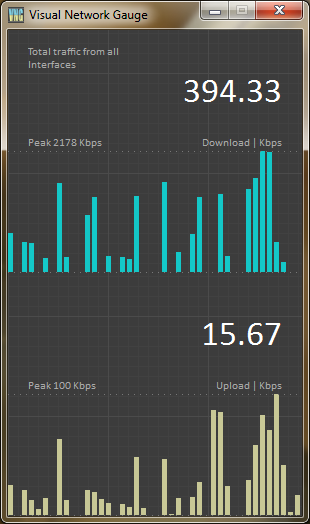
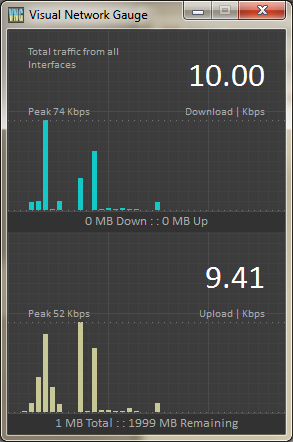
2019043001

Changed region(s): [[0.0, 0.0, 1.0, 1.0], [0.6451, 0.5882, 0.9215, 0.6765], [0.5836, 0.1471, 0.9215, 0.2059]]

diff --git a/VNGHelp/help.html b/VNGHelp/help.html
@@ -49,7 +49,7 @@
                         <img src="images/OormiLogo.png" alt="oormi">
 
                         <p><a href="https://oormi.in">By Oormi Creations</a></p>
-                        <p>Oct 2018</p>
+                        <p>April 2019</p>
                         <p>For queries, support, bug reports, feature requests etc, please Email us:</p>
                         <p><a href="mailto:oormicreations@gmail.com">oormicreations@gmail.com</a></p>
 
@@ -81,6 +81,7 @@
                 <p>VizNetGauge also plots a running bar chart of the upload and download speeds.</p>
                 <p>It auto detects the network interfaces and can show the traffic from a single interface or sum of all traffic
                 going through all interfaces.</p>
+                <p>It also shows the uploaded, downloaded, total and remaining data counters.</p>
                    <p>It has a responsive, dynamic and minimal UI.</p>
                    <p>It provides many customizable features as mentioned below.</p>
                <p>To explore more features and functions of this utility, right
@@ -128,14 +129,10 @@
                 <h3 id = "Usage">Usage</h3>
                 <p>Simply run it. You can resize the window. Zoom in with a bigger window. A smaller window will gradually remove the content to 
                 make it more readable, keeping the essentials. It shows the name of the interface, peak speed and units in addition to the
-                network upload and download speed.</p>
-               
-            
+                network upload and download speed. It also displays the data counters.</p>
+         
+          
  
-                <div class="noticebox">
-                  <p>Note: It remembers the window position, but not the window size (Current version).</p>
-                </div>
-                 <br>
                 <div class="noticebox">
                   <p>Note: There is a lower and higher limit for window size to keep things in order.</p>
                 </div>
@@ -147,12 +144,17 @@
                
                 
                  <br><br>
-                
+              <br><hr> <br>
+             <h3 id="Options">Options</h3>
+               
                 
                 <p>Right Click on the main window to bring up the Pop Up Menu.</p>
                 <p><strong>Options/Restore default settings:</strong> Does exactly that.</p>
                 <p><strong>Options/Always on top:</strong> If you wish to view the speed all the time without losing the sight of VizNetGauge.</p>
                 <p><strong>Options/Minimize to tray:</strong> If you have more important things to do and VizNetGauge in standing in the way.</p>
+                <p><strong>Options/Configure Data Usage:</strong> Brings up the data usage settings dialog.</p>
+                <p><strong>Options/Reset Data Usage History:</strong> Sets all data counters to 0.</p>
+
                 <p><strong>Help/Online Help:</strong> Access this help online.</p>
                 <p><strong>Help/About:</strong> Information about VizNetGauge.</p>
                 <p><strong>Help/Check for updates:</strong> If updates are available
@@ -230,7 +232,7 @@
           | <a href="https://github.com/oormicreations/VizNetGauge/blob/master/LICENSE.txt"
 
             target="_blank"> License</a></p>
-        <p><small>© 2018 Oormi Creations</small></p>
+        <p><small>© 2019 Oormi Creations</small></p>
         </div>
 
 

diff --git a/VizNetGauge/VizNetGaugeDlg.cpp b/VizNetGauge/VizNetGaugeDlg.cpp
@@ -533,7 +533,7 @@ void CVizNetGaugeDlg::DrawDataText(CDC * pDC, CRect clRect)
 
 	CRect rText;
 	rText.left = clRect.left;
-	rText.top = clRect.bottom + (LONG)(clRect.bottom*0.015f);
+	rText.top = clRect.bottom + (LONG)(clRect.bottom*0.015f) + 1;
 	rText.right = clRect.right;
 	rText.bottom = clRect.bottom + 400;
 	
@@ -546,8 +546,8 @@ void CVizNetGaugeDlg::DrawDataText(CDC * pDC, CRect clRect)
 	LONGLONG total = (dn + up) / mb;
 	m_lBytesRem = (m_DataUseDlg.m_lMaxData) - total;
 
-	if (m_bIsUpload) sValue.Format(_T("%ld MB Total : : %ld MB Remaining"), total, m_lBytesRem);
-	else sValue.Format(_T("%ld MB Down : : %ld MB Up"), dn/mb, up/mb);
+	if (m_bIsUpload) sValue.Format(_T("%lld MB Total : : %lld MB Remaining"), total, m_lBytesRem);
+	else sValue.Format(_T("%lld MB Down : : %lld MB Up"), dn/mb, up/mb);
 
 	DRAWTEXTPARAMS dtParams;
 	dtParams.cbSize = sizeof(DRAWTEXTPARAMS);
@@ -1699,8 +1699,12 @@ void CVizNetGaugeDlg::OnOptionsSettings()
 void CVizNetGaugeDlg::SaveSettings()
 {
 	CString profile;
-	profile.Format(_T("%d%d"), m_uVMaj, m_uVMin);
 	VNGSET ps;
+#ifdef DEBUG
+	profile.Format(_T("%d%d_d"), m_uVMaj, m_uVMin);
+#else
+	profile.Format(_T("%d%d"), m_uVMaj, m_uVMin);
+#endif // DEBUG
 
 	ps.m_bSetTopMost = m_bTopmostMode;
 	ps.m_uSetUpdateFreq = m_uTimerDelay;
@@ -1738,9 +1742,14 @@ void CVizNetGaugeDlg::SaveSettings()
 BOOL CVizNetGaugeDlg::LoadSettings()
 {
 	CString profile;
-	profile.Format(_T("%d%d"), m_uVMaj, m_uVMin);
 	VNGSET *pps;
 	UINT n;
+
+#ifdef DEBUG
+	profile.Format(_T("%d%d_d"), m_uVMaj, m_uVMin);
+#else
+	profile.Format(_T("%d%d"), m_uVMaj, m_uVMin);
+#endif // DEBUG
 
 	if (AfxGetApp()->GetProfileBinary(_T("VizNetGauge") + profile, _T("Settings"), (LPBYTE*)&pps, &n))
 	{
@@ -1913,8 +1922,8 @@ void CVizNetGaugeDlg::ResetHis(BOOL silent)
 
 void CVizNetGaugeDlg::Renew()
 {
-	int day = CTime::GetCurrentTime().GetDay();
-	int month = CTime::GetCurrentTime().GetMonth();
+	UINT day = CTime::GetCurrentTime().GetDay();
+	UINT month = CTime::GetCurrentTime().GetMonth();
 	
 	//day = 1;//test
 	//month = 6;

diff --git a/readme.md b/readme.md
@@ -35,6 +35,8 @@ https://github.com/oormicreations/VizNetGauge/releases
 * Auto scale the graph.
 * Auto detection of active network interfaces.
 * Display a single network interface or the total traffic from all.
+* Data usage counters.
+* Data usage warning.
 * Built in themes.
 * Customizations such as averaging times, update frequency and units.
 * Remembers window position and customizations.
@@ -45,9 +47,12 @@ https://github.com/oormicreations/VizNetGauge/releases
 
 ---
 
-**What is new in version 1.0**
+**What is new in version 1.1**
 
-See above.
+* Data usage counters.
+* Data usage warning.
+* Data usage renewal.
+* Bug fixes.
 
 ---
 
